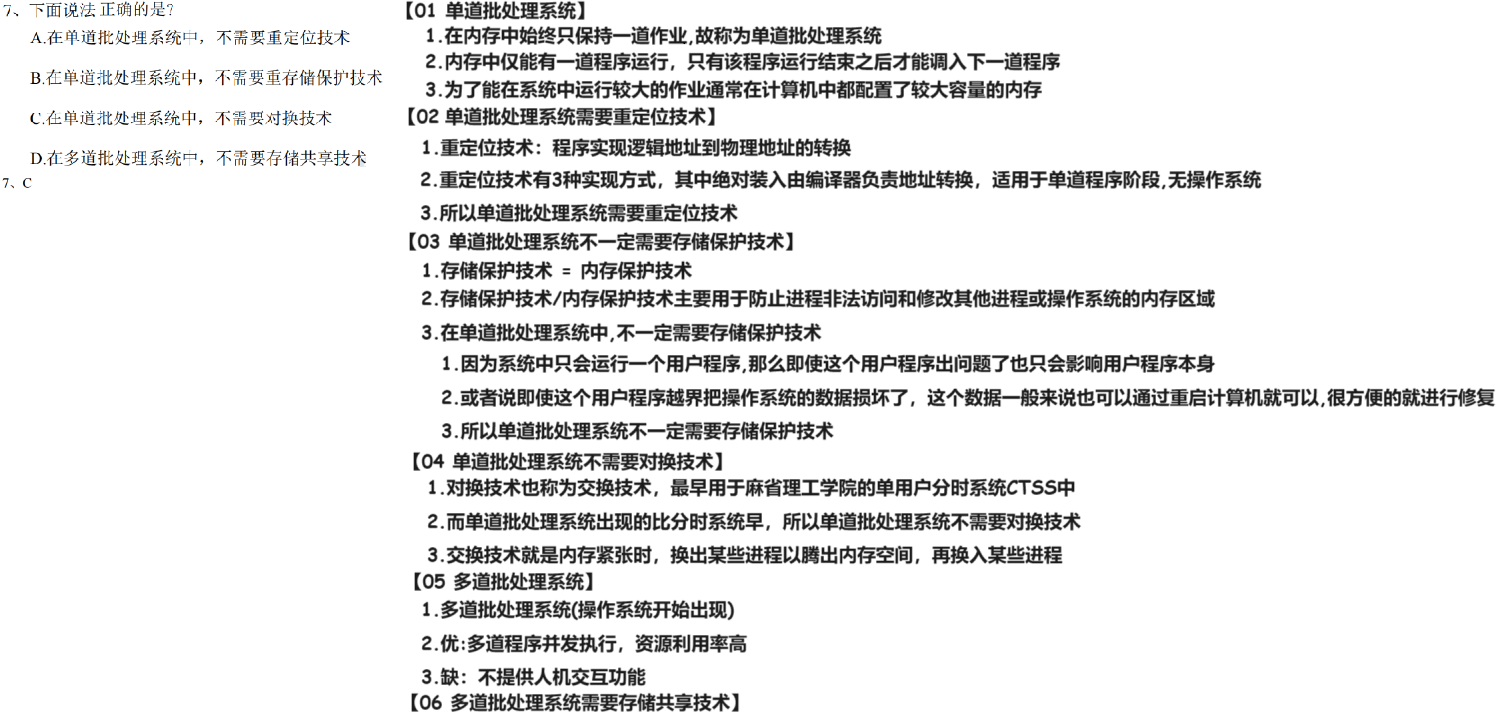
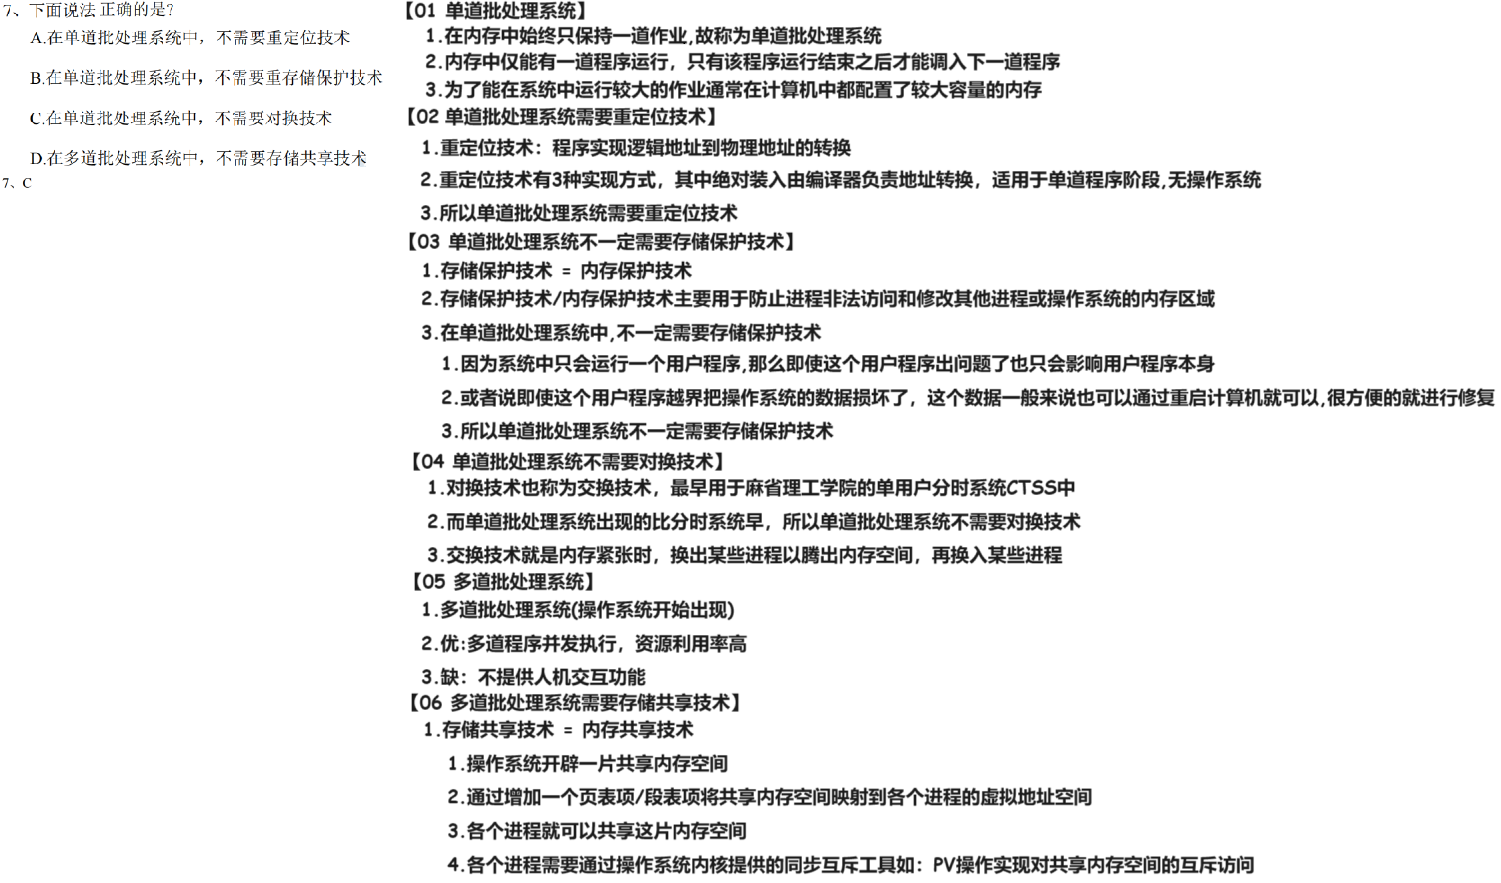
240706

Changed region(s): [[0.0, 0.0, 1.0, 1.0]]

diff --git a/01 初试/01 OS/01 题集/01 820/05 22 12/01 小题 12/01 选择题 12 = 4 + 8/02 余哥考研 8/06 选择题7 单道批处理系统 多道批处理系统  重定位技术 重存储保护技术 对换技术 存储共享技术  240706/02 Doc.md b/01 初试/01 OS/01 题集/01 820/05 22 12/01 小题 12/01 选择题 12 = 4 + 8/02 余哥考研 8/06 选择题7 单道批处理系统 多道批处理系统  重定位技术 重存储保护技术 对换技术 存储共享技术  240706/02 Doc.md
@@ -1,3 +1,7 @@
+# 00 背诵
+
+<img src="https://cvp.oss-cn-shanghai.aliyuncs.com/picgo/202407061700977.png" alt="image-20240706170002647" style="zoom:50%;" />
+
 # 01 题目
 
 <img src="https://cvp.oss-cn-shanghai.aliyuncs.com/picgo/202405171038585.png" alt="image-20240517103853511" style="zoom: 80%;" />
@@ -6,4 +10,4 @@
 
 # 02 答案
 
-<img src="https://cvp.oss-cn-shanghai.aliyuncs.com/picgo/202405171040746.png" alt="image-20240517104002701" style="zoom:80%;" />
+<img src="https://cvp.oss-cn-shanghai.aliyuncs.com/picgo/202407061700662.png" alt="02 答案" style="zoom:50%;" />
